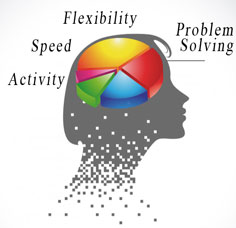
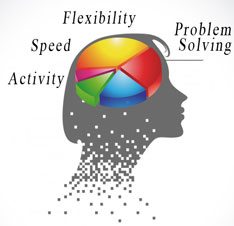
new image

diff --git a/splitB.html b/splitB.html
@@ -32,7 +32,7 @@
 					<h5>(subject to availability)</h5>
                     <div class="pie-chart">
                         <div class="chart">
-                            <img src="images/oca.jpg" />
+                            <img src="images/head.jpg" />
                         </div>
                         <div class="chart-link">
                             <!--<a href="what-makes-oca-unique.html">Find out more&nbsp;<span class="arrow-right-small"></span></a>-->
